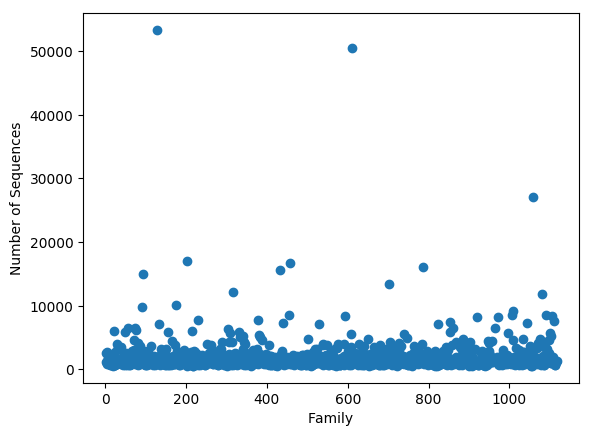
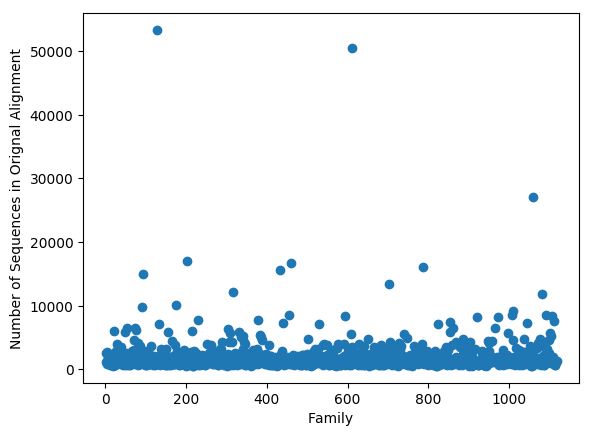
minor changes

Changed region(s): [[0.0, 0.1193, 0.0608, 0.805], [0.5473, 0.8945, 0.6081, 0.9243], [0.4257, 0.7454, 0.4561, 0.7752]]

diff --git a/analyse_plot_stats.py b/analyse_plot_stats.py
@@ -274,7 +274,7 @@ def main():
 
         plt.scatter(nums_excp, nos_excp_refined)
         plt.xlabel('Family')
-        plt.ylabel('Number of Sequences')
+        plt.ylabel('Number of Sequences in Refined Alignment')
         plt.savefig('cool_plots/nos_refined_for_deviating_families.png', bbox_inches = 'tight')
         plt.clf()
         plt.cla()
@@ -282,7 +282,7 @@ def main():
 
         plt.scatter(nums_excp, nos_excp_original)
         plt.xlabel('Family')
-        plt.ylabel('Number of Sequences')
+        plt.ylabel('Number of Sequences in Orignal Alignment')
         plt.savefig('cool_plots/nos_original_for_deviating_families.png', bbox_inches = 'tight')
         plt.clf()
         plt.cla()
